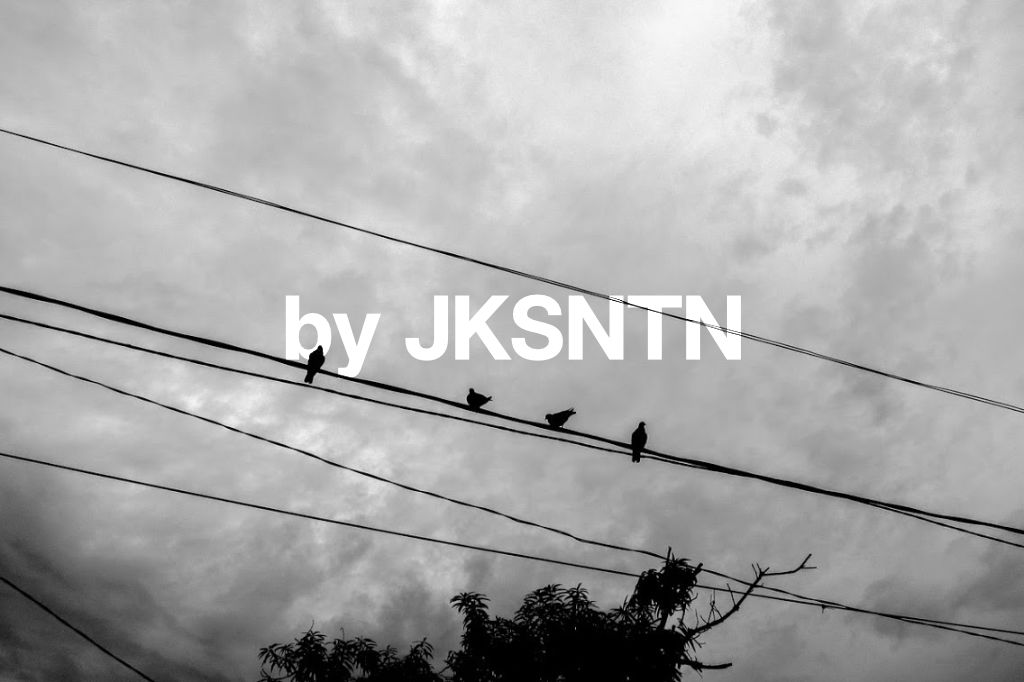
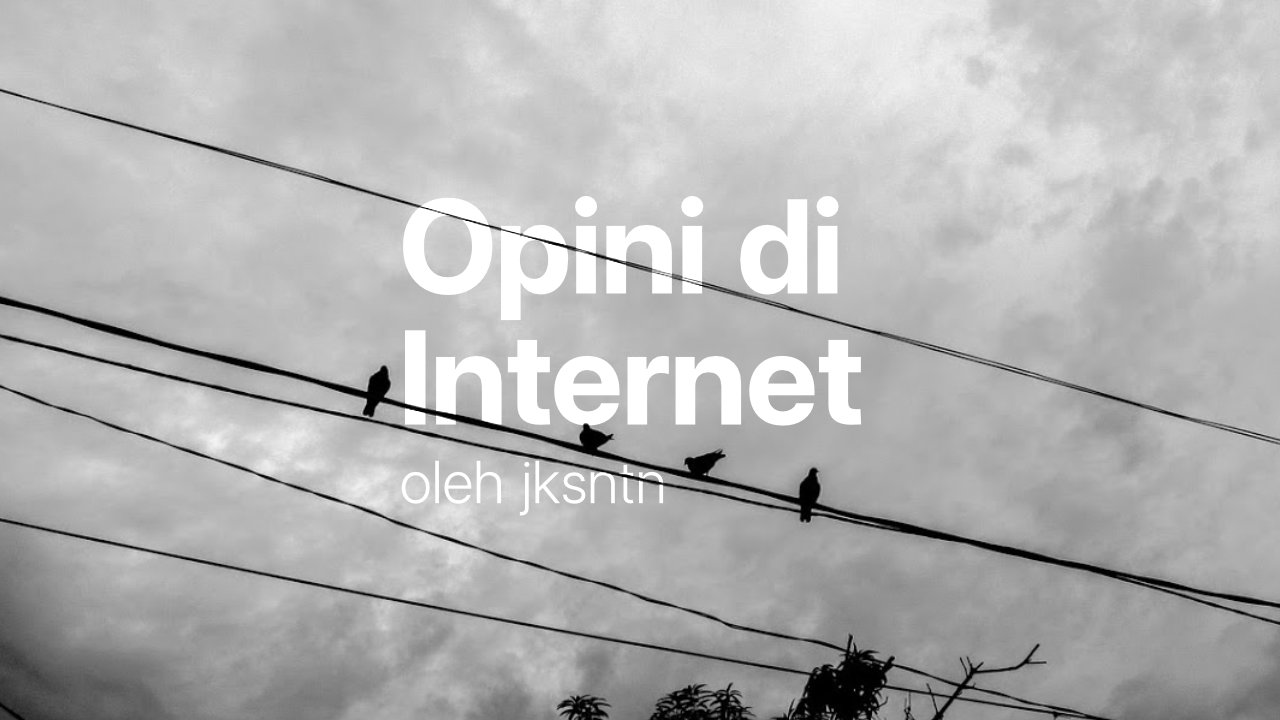
update meta opini di internet

diff --git a/layouts/_default/baseof.html b/layouts/_default/baseof.html
@@ -9,7 +9,8 @@
   <meta name="google-site-verification" content="iPJ0TcLx7PUk5rvhp7Zb94yo55JWSUTdHAEkTvAeqBM" />
 
   <!-- <title>{{ block "title" . }}{{ .Title }} | {{ .Site.Title }}{{ end }}</title> -->
-  <title>{{ .Title }}{{ if ne .Title .Site.Title }} &mdash; {{ .Site.Title }}{{ end }}</title>
+  <!-- <title>{{ .Title }}{{ if ne .Title .Site.Title }} &mdash; {{ .Site.Title }}{{ end }}</title> -->
+  <title>{{ .Title }}{{ if ne .Title .Site.Title }} &mdash; Jaka Santana{{ end }}</title>
   <meta name="description" content="{{ partial "description" . }}">
   {{ $default_noindex_kinds := slice "" }}
   {{ $noindex_kinds := .Site.Params.noindex_kinds | default $default_noindex_kinds }}

diff --git a/layouts/partials/site-header.html b/layouts/partials/site-header.html
@@ -8,7 +8,7 @@
 
         
         <div class="site-branding-text">
-          <h1 class="site-title"><a href="{{ .Site.LanguagePrefix | absURL | replaceRE "[^/]$" "${0}/" }}" rel="home">jksntn.pw</a></h1>
+          <h1 class="site-title"><a href="{{ .Site.LanguagePrefix | absURL | replaceRE "[^/]$" "${0}/" }}" rel="home">Opini di Internet</a></h1>
                   
           {{ with .Site.Params.Author }}
             <p class="site-description">oleh Jaka Santana</p>

diff --git a/assets/css/style.css b/assets/css/style.css
@@ -1605,7 +1605,7 @@ body {
 	/* letter-spacing: 0.08em; */
 	margin: 0;
 	padding: 0;
-	text-transform: lowercase;
+	text-transform: uppercase;
 }
 
 .site-title,

diff --git a/content/pages/about/index.md b/content/pages/about/index.md
@@ -5,9 +5,11 @@ description: Saya adalah seorang ayah yang kebetulan tinggal di Bekasi, Jawa Bar
 slug: about
 ---
 
-Saya adalah seorang ayah yang kebetulan tinggal di Bekasi, Jawa Barat. Punya ketertarikan atau passion yang cukup besar di bidang teknologi, seni, dan desain. 
+Saya adalah seorang bapak-bapak yang kebetulan tinggal di Bekasi, Jawa Barat. Punya ketertarikan atau passion yang cukup besar di bidang teknologi, seni dan isu sosial. 
 
-jksntn.pw menjadi media penyaluran pemikiran saya mengenai teknologi, isu saat ini, dan pengalaman pribadi saya. Ditulis kalau lagi sempet.  
+Platform ini menjadi media penyaluran opini saya terhadap perkembangan isu di internet, terutama teknologi, gadget, apps, operating system (os), sosial, politik, komedi, fotograi, desain grafis, film, musik, dan banyak hal.
+
+Tulisan diupdate kalau lagi sempet...
 
 Kebetulan saat ini bekerja di bidang IT. Namun juga senang mengerjakan beberapa project seperti fotografi (streetphotography), desain grafis, video content, dan juga web development. 
 
